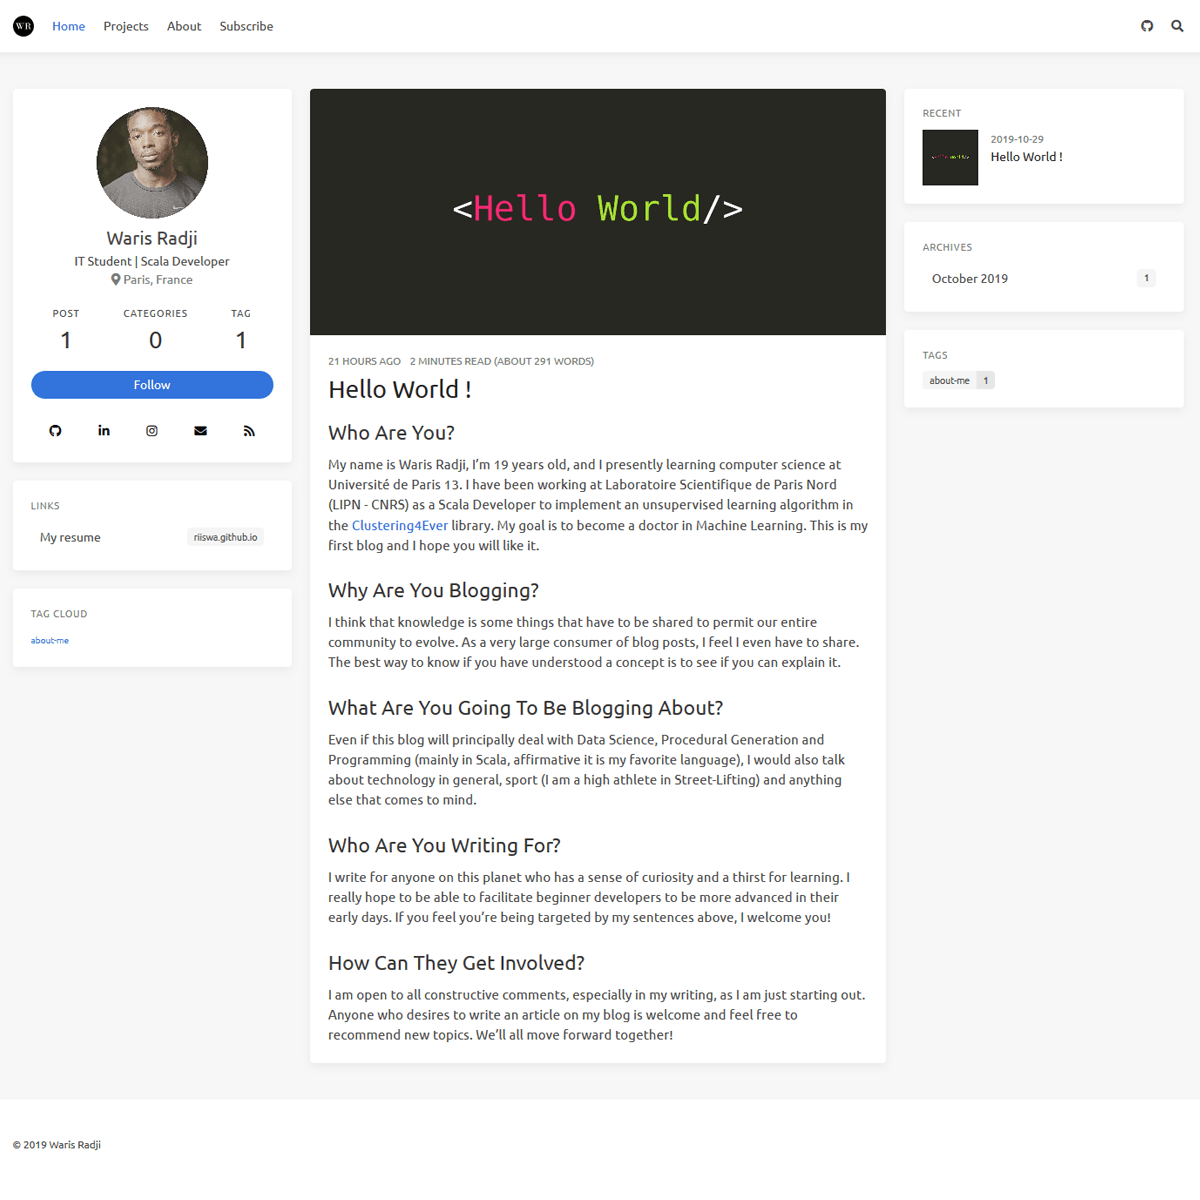
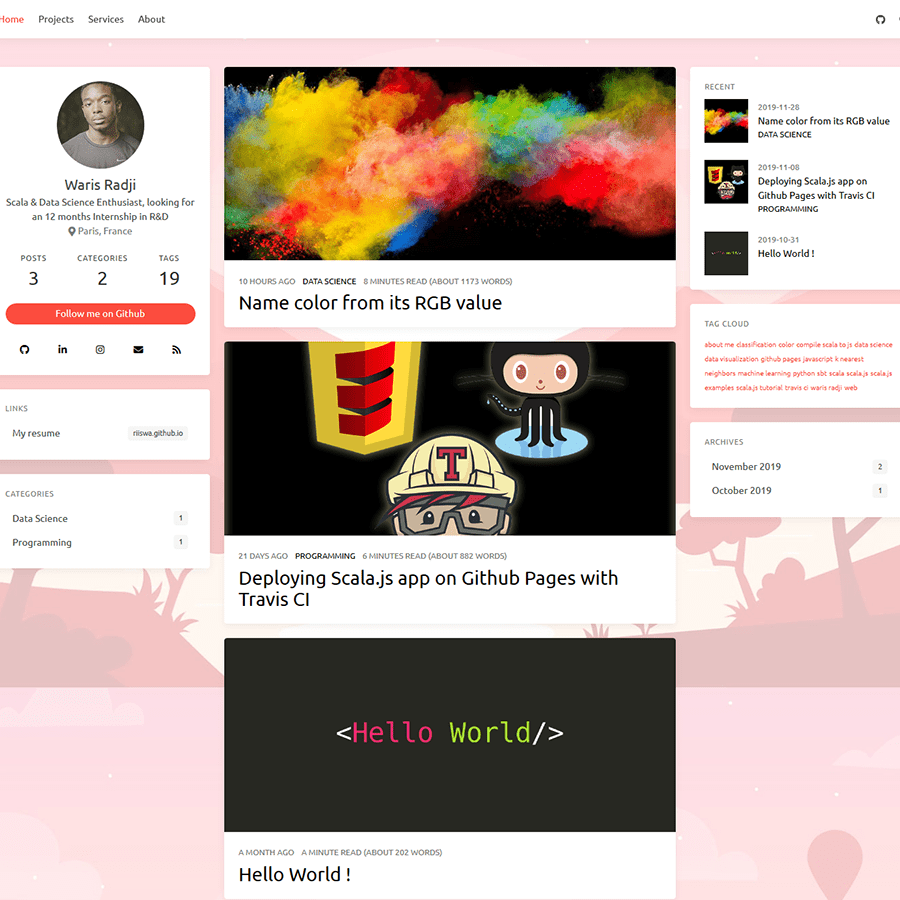
New article

diff --git a/source/_posts/name-color-from-its-rgb-value.md b/source/_posts/name-color-from-its-rgb-value.md
@@ -1,0 +1,156 @@
+---
+title: Name color from its RGB value
+date: 2019-11-29 08:49:00
+tags:
+	- python
+	- machine learning
+	- data science
+	- color
+	- k nearest neighbors
+	- data visualization
+	- classification
+
+thumbnail: /images/thumbnails/color-prediction.png
+category:
+	- Data Science
+---
+
+Today we're going to see how supervized learning model can help a machine to name color from its RGB value. The programming language used for the solution is Python.
+
+As you probably know, a color image is made up of pixels. Each pixel has a triplet value representing the values of red green and blue ([RGB](https://en.wikipedia.org/wiki/RGB_color_model)).
+
+Examples: 
+
+RGB value red=250, green=128, blue=114, give: <div style="height: 50px; width: 50px; background-color: rgb(250, 128, 114)"></div>
+RGB value red=0, green=255, blue=255, give: <div style="height: 50px; width: 50px; background-color: rgb(0, 255, 255)"></div>
+
+Our human eye allows us to perceive and identify colors, and to say that the color seen above corresponds to pink or blue, but how the machine should know this with simple RGB value?
+
+When a human sees a color that is close to pure red, he will deduce that this color is red (I apologize for the colorblindness). Giving this behavior to a machine is simple: if I give him an RGB value (unnamed color), the machine can compare this color to colors already named, by finding the nearest color. It can deduce from this that the name of the unnamed color is the same that the name of the nearest color that it has found.
+
+## Gathering data from sources
+
+The first step before building the model is gathering data from sources. To the day I write this article CSS support 147 colors names, we can find the list of colors name on this website: https://www.rapidtables.com/web/css/css-color.html. On this website, each color is represented by his name and his RGB value. 
+
+I created a small Python script that allows me to retrieve this data from the website. This article does not deal with Web scrapping, for more information about this, I invite you to read the official [documentation of Beautifulsoup](https://www.crummy.com/software/BeautifulSoup/bs4/doc/) (the library that I use to collect data from the web page). You will find however the script I used to collect data, and you can also download the generated CSV file   <a href="/files/colors.csv" download>here</a>.
+
+```python
+from bs4 import BeautifulSoup
+import requests
+import json
+
+
+def parse_rgb(s):
+    return s[3:][1:-1].replace('.', ',')
+
+
+def html_to_color(html):
+    td_tags = html.find_all('td')
+    return td_tags[1].text + ',' + parse_rgb(td_tags[3].text)
+
+
+req = requests.get('https://www.rapidtables.com/web/css/css-color.html')
+soup = BeautifulSoup(req.text, 'html')
+
+data = [html_to_color(line) for line in soup.find_all('tr')
+        if not line.find('th') and len(line.find_all('td')) == 4]
+
+with open('colors.csv', 'w') as f:
+    f.write('color_name,red,green,blue\n' + '\n'.join(data))
+```
+
+## Load and visualize data
+
+Named colors are now in the `colors.csv` file. [pandas](https://pandas.pydata.org/) python library allows loading data from CSV to data frame with the `read_csv` function.
+
+```python
+import pandas as pd
+
+df = pd.read_csv("colors.csv")
+```
+
+Display the 5 fist line of the data frame with `df.head(5)`:
+
+<img alt="Colors data frame" src="/images/color-df.png">
+
+Each color has a name and RGB value with a unique ID.
+
+An RGB value can be seen as a point (between 0 and 255) in a 3-dimensional space. To see this, we can use the [Matplotlib](https://matplotlib.org/) data visualization library to represented on a 3D scatter plot each point of the data frame with his real color and with RGB value as axis.
+
+```python
+from mpl_toolkits.mplot3d import Axes3D 
+import matplotlib.pyplot as plt
+import numpy as np
+
+fig = plt.figure(figsize=(15, 12))
+ax = fig.add_subplot(111, projection='3d')
+
+red_values = df.red.values
+
+green_values = df.green.values
+
+blue_values =  df.blue.values
+
+for i in range(len(red_values)):
+    ax.scatter(red_values[i], green_values[i], blue_values[i], 
+               color=[(red_values[i] / 255, green_values[i] / 255, blue_values[i] / 255)], s=70)
+    
+ax.set_xlabel('red')
+ax.set_ylabel('green')
+ax.set_zlabel('blue')
+
+ax.set_xticks([0, 85, 170, 255])
+ax.set_yticks([0, 85, 170, 255])
+ax.set_zticks([0, 85, 170, 255])
+
+plt.show()
+```
+
+<img alt="3D scatter plot that represents colors" src="/images/color-plot.png">
+
+## Choose the most appropriate model
+
+The last step before building a model is to choose which is the most appropriate to solve the problem. The goal is to give a name for an unnamed color finding the closest named color, what we can see as points in 3-dimensional space. We can also see each named colors as a unique category. [Classification](https://en.wikipedia.org/wiki/Statistical_classification) is the problem of identifying to which of a set categories a new observation belongs. For this problem, a category is a named color and unnamed colors are the new observations.
+
+The [k-nearest neighbors](https://en.wikipedia.org/wiki/K-nearest_neighbors_algorithm) (k-NN) algorithm perfectly match with the problem (find the closest point). k-NN is a supervised algorithm that stores all the available cases and classifies the new data or case based on a similarity measure. It is mostly used to classifies a data point based on how its neighbors are classified.
+
+In the classification phase, $k$ is a user-defined constant, and an unlabeled vector (a query or test point) is classified by assigning the label which is most frequent among the $k$ training samples nearest to that query point. If $k=1$, then the object is simply assigned to the class of that single nearest neighbor.
+
+## Train the model
+
+The Python [scikit-learn](https://scikit-learn.org/stable/index.html) library implements the k-nearest neighbors for classification via the `sklearn.neighbors.KNeighborsClassifier` class. There are many parameters in this class but the only one that will interest us today is `n_neighbors` which represents the $k$ parameter and that we will set to 1. 
+It is also necessary to retrieve the RGB values (X) from the data frame defined above, and the ID (y) of each color that will be the class to predict. These values will represent the training set.
+
+```python
+from sklearn.neighbors import KNeighborsClassifier
+
+X = df[['red', 'green', 'blue']].values
+y = df.index.values
+
+model = KNeighborsClassifier(n_neighbors=1)
+model.fit(X, y)
+```
+
+## Use the model to name color
+
+Now that the model has been trained it is possible to name new colors. I have created a function that takes as a parameter a triplet that represents a RGB value, and returns the name of that color. Simply call the `predict` method of the model which will take the tuple as a parameter, and return an ID from the data frame. Finally, we can ask the data frame to provide us with the name associated with the ID. 
+
+```python
+def name_color(rgb):
+    return df.color_name[model.predict([rgb])].values[0]
+```
+
+Examples: 
+
+<div style="height: 50px; width: 50px; background-color: rgb(18, 47, 133)"></div>
+name_color((18, 47, 133)) give midnightblue
+
+<div style="height: 50px; width: 50px; background-color: rgb(102, 158, 30)"></div>
+name_color((102, 158, 30)) give olivedrab
+
+<div style="height: 50px; width: 50px; background-color: rgb(221, 145, 35)"></div>
+name_color((221, 145, 35)) give goldenrod
+
+## Conclusion
+
+We have seen how supervised learning can help a machine to name colors from its RGB value. To make the model more accurate you can add new named colors to the training set. You can also have fun via this link http://www.darkart.com/cgi-bin/colors.cgi giving names to randomly generated colors. Soon I will be writing an article on unsupervised learning and color. In the meantime, thank you for reading this article, see you later!

diff --git a/source/_posts/deploying-scala-js-app-on-github-pages-with-travis-ci.md b/source/_posts/deploying-scala-js-app-on-github-pages-with-travis-ci.md
@@ -1,5 +1,5 @@
 ---
-title: Deploying Scala.js app on Github Pages with Travis CI.
+title: Deploying Scala.js app on Github Pages with Travis CI
 date: 2019-11-08 16:10:37
 tags:
 	- scala.js
@@ -14,7 +14,7 @@ tags:
 	- web
 thumbnail: /images/thumbnails/scala.js-travis.png
 category:
-	- Computer Science
+	- Programming
 ---
 
 Today we are going to use Travis CI (free for an open-source repository) to deploy continuously a Scala.js app on Github pages. All your commit on the master branch put your static files on a `gh-pages` branch once the test is validated.
